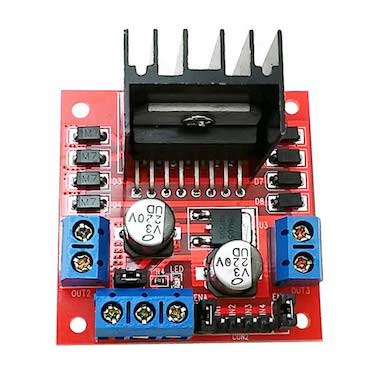
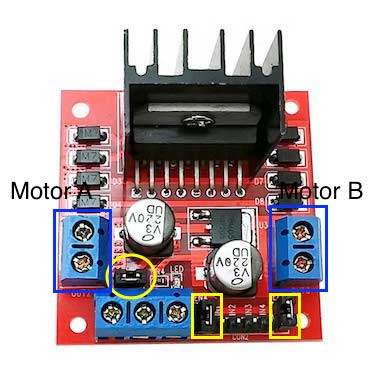
arduino-rc-car-part2 correction

Changed region(s): [[0.0297, 0.4757, 0.4459, 0.8324], [0.7135, 0.4757, 0.9811, 0.9216], [0.5054, 0.773, 0.6243, 0.9216]]

diff --git a/_posts/2018-02-26-arduino-rc-car-part2.md b/_posts/2018-02-26-arduino-rc-car-part2.md
@@ -46,7 +46,7 @@ analogWrite(pin, value)
 
 ### 전원 설정
 
-12V 단자 위쪽과 OUT2 오른쪽에 점퍼선이 있는데, 이 선으로 전원을 설정할 수 있습니다.
+그림에서 노란색 원으로 표시된 점퍼가 있는데, 이 점퍼로 전원을 설정할 수 있습니다.
 
 점퍼가 끼워져 있으면 외부에서 공급받는 12V를 이용해서 L298N 모듈의 회로가 동작하고 5V 단자로 5V 전원을 출력합니다. 만약 외부 전원을 이용해서 아두이노도 동작하고 싶다면 점퍼를 끼운 상테애서 L298N의 5V를 아두이노의 VIN에 연결하면 됩니다.
 
@@ -60,7 +60,7 @@ analogWrite(pin, value)
 
 ### 모터 속도 조정
 
-모터 A와 모터 B의 속도는 각각 ENA 핀과 ENB 핀으로 조절합니다. 사진에서 보듯 이 핀에는 점퍼가 연결되어 있는데요, 연결된 상태에서는 항상 최고 속도로 움직입니다. 속도를 조절하려면 점퍼를 제거하고, 아두이노의 PWM이 가능한 핀에 연결해야 합니다.
+모터 A와 모터 B의 속도는 각각 ENA 핀과 ENB 핀으로 조절합니다. 사진에서 노란색 사각형이로 표시된 부분에 있는데 왼쪽이 ENA이고 오른쪽이 ENB입니다. 그림에서 보듯 이 핀에는 점퍼가 연결되어 있는데요, 연결된 상태에서는 항상 최고 속도로 움직입니다. 속도를 조절하려면 점퍼를 제거하고, 아두이노의 PWM이 가능한 핀에 연결해야 합니다.
 
 ### 모터 방향 조정
 
@@ -70,9 +70,9 @@ IN1 (IN3) | IN2 (IN4) | 방향
 LOW | LOW | 정지
 HIGH | LOW | 전진
 LOW | HIGH | 후진
-HIGH | HIGH | (정지하지만 사용 안함)
+HIGH | HIGH | 정지(하지만 사용 안함)
 
-## 모터 움직이기
+## 회로 구성하기
 
 ### 차체 수정
 
@@ -118,13 +118,13 @@ GND    | GND         | 4xAAA 건전지 홀더 (-)극
        | OUT3        |  모터 B
        | OUT4        |  모터 B
 
-### 코드
+## 코드
 
 아래 코드는 앞으로 한 번, 뒤로 한 번 속도를 1에서 255까지 변화시키면서 모터가 제대로 동작하는 지를 살펴보기 위해 작성했습니다. 
 
 <script src="https://gist.github.com/MyoungJinKim/226da8f32f9038f20fd212aef5e1179f.js"></script>
 
-### 실행 결과
+## 실행 결과
 
 <iframe width="560" height="315" src="https://www.youtube.com/embed/PIvRlT9eHHU" frameborder="0" allow="autoplay; encrypted-media" allowfullscreen></iframe>
 <p/>
